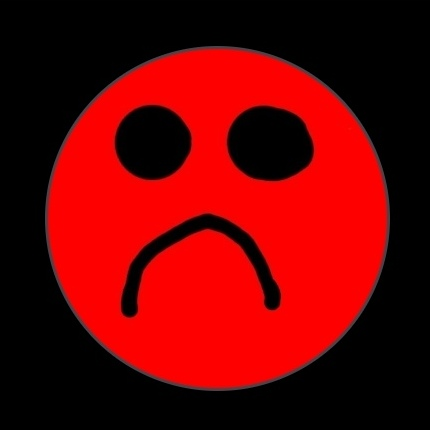
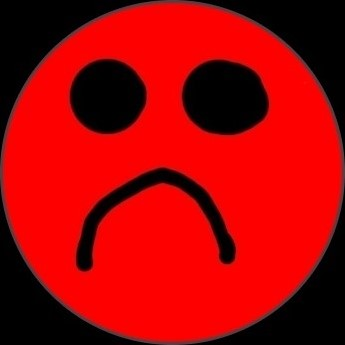
refactor: рефакторит код

diff --git a/src/pages/RegisterPage/RegisterPage.tsx b/src/pages/RegisterPage/RegisterPage.tsx
@@ -1,13 +1,15 @@
-import { useNavigate, Link } from 'react-router-dom'
+import { useNavigate } from 'react-router-dom'
 import { RoutePaths } from '../../routes/RoutePaths'
 import { registerUser } from '../../manageAuth'
 import { useAuth } from '../../hooks/useAuth'
+import { ImageMT } from '../../components/Mantine/ImageMT.tsx/ImageMT'
 import { Colors } from '../../constants/colors'
 import {
   validateConfirmPassword,
   validateRegisterPassword,
   validateUsername,
 } from '../../utils/validation'
+import { navigateTo } from '../../utils/navigateTo'
 import { useForm } from '@mantine/form'
 import { Stylizloader } from '../../components/Mantine/Stylizloader/Stylizloader'
 import {
@@ -17,7 +19,6 @@ import {
   Button,
   Box,
   Title,
-  NavLink,
 } from '@mantine/core'
 
 export const RegisterPage = () => {
@@ -80,20 +81,22 @@ export const RegisterPage = () => {
           {...form.getInputProps('confirmPassword')}
         />
         <Group wrap="nowrap" mt="md">
-          <NavLink
-            component={Link}
-            to={RoutePaths.Login}
-            label="Уже зарегистрированы?"
+          <Button
+            component="a"
+            onClick={() => navigateTo(navigate, RoutePaths.Login)}
             variant="subtle"
-            active
             c={Colors.red}
             fw="bold"
-          />
+          >
+            Уже зарегистрированы?
+          </Button>
+
           <Button type="submit" w="120px" bg="#006400" radius={5}>
             Register
           </Button>
         </Group>
       </form>
+      {(form.errors.username || form.errors.password || isError) && <ImageMT />}
     </Box>
   )
 }

diff --git a/src/pages/LoginPage/LoginPage.tsx b/src/pages/LoginPage/LoginPage.tsx
@@ -1,9 +1,11 @@
-import { useNavigate, Link } from 'react-router-dom'
+import { useNavigate } from 'react-router-dom'
 import { RoutePaths } from '../../routes/RoutePaths'
 import { useAuth } from '../../hooks/useAuth'
 import { loginUser } from '../../manageAuth'
+import { ImageMT } from '../../components/Mantine/ImageMT.tsx/ImageMT'
 import { Colors } from '../../constants/colors'
 import { validateLoginPassword, validateUsername } from '../../utils/validation'
+import { navigateTo } from '../../utils/navigateTo'
 import { useForm } from '@mantine/form'
 import { Stylizloader } from '../../components/Mantine/Stylizloader/Stylizloader'
 import {
@@ -13,7 +15,6 @@ import {
   Button,
   Box,
   Title,
-  NavLink,
 } from '@mantine/core'
 
 export const LoginPage = () => {
@@ -60,20 +61,21 @@ export const LoginPage = () => {
           {...form.getInputProps('password')}
         />
         <Group wrap="nowrap" mt="md">
-          <NavLink
-            component={Link}
-            to={RoutePaths.Register}
-            label="Ещё не зарегистрированы?"
+          <Button
+            component="a"
+            onClick={() => navigateTo(navigate, RoutePaths.Register)}
             variant="subtle"
-            active
             c={Colors.red}
             fw="bold"
-          />
+          >
+            Ещё не зарегистрированы?
+          </Button>
           <Button type="submit" w="120px" bg="#006400" radius={5}>
             Login
           </Button>
         </Group>
       </form>
+      {(form.errors.username || form.errors.password || isError) && <ImageMT />}
     </Box>
   )
 }

diff --git a/src/components/Mantine/ImageMT.tsx/ImageMT.tsx b/src/components/Mantine/ImageMT.tsx/ImageMT.tsx
@@ -1,0 +1,35 @@
+import { Box, Group, Image } from '@mantine/core'
+
+interface ImageMTProps {
+  justify?:
+    | 'flex-start'
+    | 'center'
+    | 'flex-end'
+    | 'space-between'
+    | 'space-around'
+    | 'space-evenly'
+  m?: string | number
+  p?: string | number
+  h?: number
+  src?: string
+  fit?: 'contain' | 'cover' | 'fill' | 'none' | 'scale-down'
+  radius?: string | number
+}
+
+export const ImageMT: React.FC<ImageMTProps> = ({
+  justify = 'center',
+  m = 'none',
+  p = 'none',
+  h = 100,
+  src = 'https://github.com/vitalyvitmens/new-project-vite-mantine-dexie-auth-pwa/blob/main/src/assets/sadSmiley.jpg?raw=true',
+  fit = 'contain',
+  radius = '50%',
+}) => {
+  return (
+    <Group justify={justify}>
+      <Box m={m} p={p}>
+        <Image radius={radius} h={h} w="auto" fit={fit} src={src} />
+      </Box>
+    </Group>
+  )
+}

diff --git a/src/utils/navigateTo.ts b/src/utils/navigateTo.ts
@@ -1,0 +1,9 @@
+import { startTransition } from 'react'
+import { NavigateFunction } from 'react-router-dom'
+import { RoutePaths } from '../routes/RoutePaths'
+
+export const navigateTo = (navigate: NavigateFunction, path: RoutePaths) => {
+  startTransition(() => {
+    navigate(path, { replace: true })
+  })
+}
